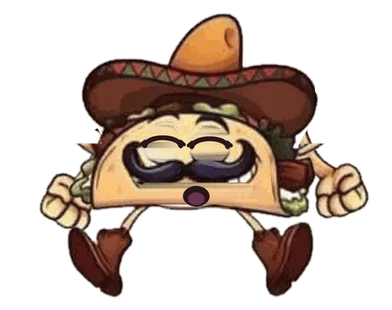
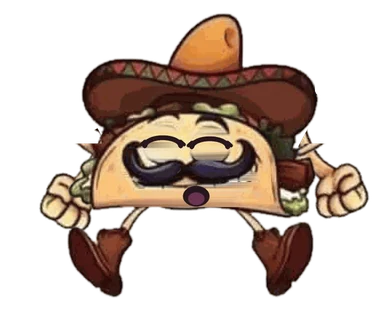
Clear the last of the grin from the sleeping mascot
A white sliver of the smile's right corner was still showing under the
moustache's right end. The grin mask was being clamped to an ellipse,
which is too narrow at the rows where the smile curls up at the corners,
so those pixels fell outside it and survived.

The grin is bounded above by the moustache, not by a tidy shape, so the
bound now comes from the moustache itself, read column by column. That
also clears the two smaller remnants along the lower lip that the same
ellipse was cutting off.

Claude-Session: https://claude.ai/code/session_01CU535hAmQQA9aHdvPWE5tC

diff --git a/taco-taco-connect/tools/make-sleeping-mascot.py b/taco-taco-connect/tools/make-sleeping-mascot.py
@@ -39,6 +39,8 @@ SWING = 118.0                      # degrees; 70 reads as "arms out", 145 hides 
 CUT_GROW = 15                      # px; smaller leaves a pale wedge at the shoulder
 EYES = ((325, 288, 44, 40), (419, 290, 44, 36))   # cx, cy, rx, ry
 MOUSTACHE_TOP = 322                # eye mask never reaches below this
+MOUSTACHE_SEED = (390, 335)        # a point inside the moustache
+GRIN_TOP, GRIN_BOTTOM = 344, 425   # rows the grin mask may occupy
 INK = (28, 22, 40)
 
 root = pathlib.Path(__file__).resolve().parent.parent
@@ -127,16 +129,28 @@ for cx, cy, rx, ry in EYES:
 mask[MOUSTACHE_TOP:, :] = 0
 
 band = np.zeros((h, w), np.uint8)
-band[350:430, 258:534] = 255
+band[340:430, 250:542] = 255
 teeth = ((hsv[..., 1] < 55) & (hsv[..., 2] > 195) & (band > 0)).astype(np.uint8) * 255
 lower = np.zeros((h, w), np.uint8)
-lower[398:416, 262:530] = ((hsv[398:416, 262:530, 2] < 95) * 255).astype(np.uint8)
+lower[398:418, 258:536] = ((hsv[398:418, 258:536, 2] < 95) * 255).astype(np.uint8)
 grin = cv2.dilate(teeth, np.ones((21, 21), np.uint8)) | cv2.dilate(lower, np.ones((13, 13), np.uint8))
-# hold the whole thing inside the face, away from the chin and the shell edge
-inside = np.zeros((h, w), np.uint8)
-cv2.ellipse(inside, (392, 383), (118, 38), 0, 0, 360, 255, -1)
-grin &= inside
-grin[:346, :] = 0
+
+# The grin is bounded above by the moustache, not by a tidy shape. An ellipse
+# was too narrow where the smile curls up at the corners and left a white sliver
+# of it showing under the moustache's right end, so the bound is taken from the
+# moustache itself, column by column.
+dark = ((hsv[..., 2] < 95) & (alpha0 > 200)).astype(np.uint8)
+nm, lm, sm, _ = cv2.connectedComponentsWithStats(dark, 8)
+mous_id = lm[MOUSTACHE_SEED[1], MOUSTACHE_SEED[0]]
+if mous_id == 0:
+    sys.exit("moustache seed point missed; check MOUSTACHE_SEED")
+mous = lm == mous_id
+allow = np.zeros((h, w), bool)
+for x in range(w):
+    col = np.where(mous[:, x])[0]
+    top = (col.max() + 3) if len(col) else GRIN_TOP
+    allow[max(top, GRIN_TOP):GRIN_BOTTOM, x] = True
+grin &= (allow.astype(np.uint8) * 255)
 mask |= grin
 
 filled = seam_fill(rgb, mask)
